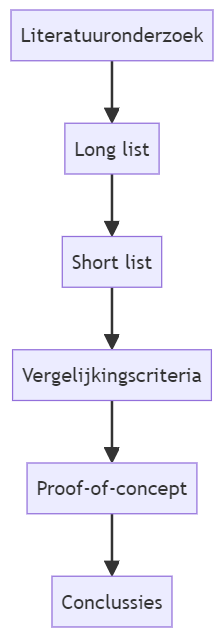
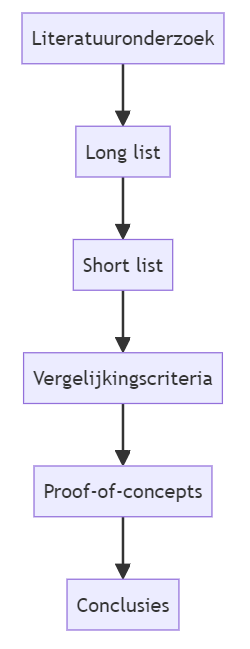
Verbeterd voorstel

Changed region(s): [[0.0312, 0.0, 0.9688, 0.9828]]

diff --git a/voorstel/voorstel-inhoud.tex b/voorstel/voorstel-inhoud.tex
@@ -3,16 +3,16 @@
 \section{Introductie}%
 \label{sec:introductie}
 
-Het implementeren van ETL's en ELT's speelt een kritieke rol in de development binnen Net IT. Net IT is een bedrijf gespecialiseerd in Customer Relationship Management (CRM). Een CRM-systeem is een applicatie om voeling te houden met klanten en om processen te stroomlijnen en meer winst te genereren. Doordat Net IT een Microsoft Partner is zullen ze CRM-toepassingen implementeren met Microsoft Dynamics 365 en intelligente bedrijfstoepassingen met Microsoft Power Platform. Binnen Microsoft 365 Dynamics Customer Engagement worden er CSV bestanden geëxporteerd naar Azure Data Lake. Deze data wordt minstens dagelijks opgekuist, aangevuld en opgesplitst om naar de klant te kunnen doorsturen via SFTP of e-mail. Momenteel wordt dit gedaan door ETL's en ELT's te implementeren in Azure Data Factory, gebruik makend van de UI tools die aangeboden worden. Doordat dit niet de enige mogelijkheid is om dit te implementeren zal er gekeken worden naar de verschillende opties die er zijn. Aangezien Net IT een Microsoft Partner is zal er vooral gekeken worden binnen Microsoft Azure. Deze verschillende mogelijkheden zullen vergeleken worden op basis van performantie, kostprijs (voor dezelfde performantie), complexiteit, moeilijkheidsgraad in opzet en configuratie van de resources, verschil in implementatietijd en mogelijkheden van de tool. De methode die gebruikt zal worden is een gemengde aanpak gebasseerd op literatuuronderzoek en het opstellen van proof-of-concepts voor de gegeven use case van Net IT. Dit zal resulteren in een gedetailleerd vergelijkingsrapport, inclusief aanbeveling voor de meest geschikte aanpak voor het implementeren van ETL's of ELT's voor de gegeven use case.
+Het implementeren van ETL's en ELT's speelt een kritieke rol in de development binnen Net IT. Net IT is een bedrijf gespecialiseerd in Customer Relationship Management (CRM). Een CRM-systeem is een applicatie om voeling te houden met klanten en om processen te stroomlijnen en meer winst te genereren. Doordat Net IT een Microsoft Partner is zullen ze CRM-toepassingen implementeren met Microsoft Dynamics 365 en intelligente bedrijfstoepassingen met Microsoft Power Platform. Binnen Microsoft 365 Dynamics Customer Engagement worden er CSV bestanden geëxporteerd naar Azure Data Lake. Deze data wordt minstens dagelijks opgekuist, aangevuld en opgesplitst om naar de klant te kunnen doorsturen via SFTP of e-mail. Momenteel wordt dit gedaan door ETL's en ELT's te implementeren in Azure Data Factory, gebruik makend van de UI tools die aangeboden worden. Doordat dit niet de enige mogelijkheid is om dit te implementeren zal er gekeken worden naar de verschillende opties die er zijn. Aangezien Net IT een Microsoft Partner is zal er vooral gekeken worden binnen Microsoft Azure. Deze verschillende mogelijkheden zullen vergeleken worden op basis van performantie, kostprijs (voor dezelfde performantie), complexiteit, moeilijkheidsgraad in opzet en configuratie van de resources, verschil in implementatietijd en mogelijkheden van de tool. De methode die gebruikt zal worden is een gemengde aanpak gebaseerd op literatuuronderzoek en het opstellen van proof-of-concepts voor de gegeven use case van Net IT. Dit zal resulteren in een gedetailleerd vergelijkingsrapport, inclusief aanbeveling voor de meest geschikte aanpak voor het implementeren van ETL's of ELT's voor de gegeven use case.
 
 \section{State-of-the-art}%
 \label{sec:state-of-the-art}
 
-Als data data engineer krijgt men data in veel verschillende vormen. Het is dus noodzakelijk om deze data klaar te maken voor business analytics.~\autocite{Kromer2022} Hiervoor maakt men gebruik van ETL's en ELT's. Dit zijn processen die organisaties gebruiken voor het verzamelen en samenvoegen van data uit meerdere bronnen. Bij ETL's wordt de data getransformeerd voor het naar de doelopslagplaats geladen wordt, terwijl dit bij ELT's pas achteraf gebeurd. Daardoor staat ETL voor Extract, Transform and Load en ELT voor Extract, Load and Transform.~\autocite{Bartley2023} 
+Als data engineer krijgt men data in veel verschillende vormen. Het is dus noodzakelijk om deze data klaar te maken voor business analytics.~\autocite{Kromer2022} Hiervoor maakt men gebruik van ETL's en ELT's. Dit zijn processen die organisaties gebruiken voor het verzamelen en samenvoegen van data uit meerdere bronnen. Bij ETL's wordt de data getransformeerd voor het naar de doelopslagplaats geladen wordt, terwijl dit bij ELT's pas achteraf gebeurd. Daardoor staat ETL voor Extract, Transform and Load en ELT voor Extract, Load and Transform.~\autocite{Bartley2023} 
 
 In Azure zijn er meerdere mogelijkheden voor het implementeren van ETL's en ELT's. Één van deze mogelijkheden is Azure Data Factory. Zoals te zien in de enquête van~\textcite{Sreemathy2021} is dit de meest populaire data integratie service die aangeboden wordt door de cloud providers. Binnen Azure Data Factory kan er gebruik gemaakt worden van Mapping Data Flows, dit is een codevrije manier waarmee ETL's opgebouwd kunnen worden. De logica achter de ETL kan hierna makkelijk getest worden op live data en samples.~\autocite{Kromer2022a} 
 
-Daarnaast biedt Azure ook Azure Databricks aan. Het verschil hierbij is dat de ETL's worden geïmplementeerd via code terwijl dat bij Azure Data Factory via de UI tools kan gebeurt. Azure Databricks is gebasseerd op het Apache Spark open source project. Het grote voordeel is dat het platform het toelaat om makkelijker te kunnen samen werken. Daarnaast is Apache Spark niet enkel gelimiteerd tot het maken van ETL's maar kan het ook gebruikt worden voor real-time analytics, machine learning, graph processing, etc.~\autocite{Etaati2019}
+Daarnaast biedt Azure ook Azure Databricks aan. Het verschil hierbij is dat de ETL's worden geïmplementeerd via code terwijl dat bij Azure Data Factory via de UI tools kan gebeurt. Azure Databricks is gebaseerd op het Apache Spark open source project. Het grote voordeel is dat het platform het toelaat om makkelijker te kunnen samen werken. Daarnaast is Apache Spark niet enkel gelimiteerd tot het maken van ETL's maar kan het ook gebruikt worden voor real-time analytics, machine learning, graph processing, etc.~\autocite{Etaati2019}
 
 Azure is niet de enigste cloud provider die ETL tools aanbiedt. Zo heeft AWS bijvoorbeeld AWS Glue~\autocite{Khan2024} en Google Cloud heeft Google Data Fusion.~\autocite{Jaiswal2022}
 

diff --git a/voorstel/LievensLoeka-BPvoorstel.tex b/voorstel/LievensLoeka-BPvoorstel.tex
@@ -20,7 +20,7 @@
 % \course{Bachelor thesis}
 % \assignmenttype{Research proposal}
 
-\academicyear{2023-2023} % TODO: pas het academiejaar aan
+\academicyear{2023-2024} % TODO: pas het academiejaar aan
 
 % TODO: Werktitel
 \title{Optimaliseren van gegevensverwerking in Microsoft Azure: Een vergelijkende analyse van implementatiemethoden voor Extractie, Transformatie en Laden (ETL) en Extractie, Laden en Transformatie (ELT)}

diff --git a/voorstel/methodologie.md b/voorstel/methodologie.md
@@ -3,6 +3,6 @@ graph TD;
     A[Literatuuronderzoek] --> B[Long list]
     B --> C[Short list]
     C --> D[Vergelijkingscriteria]
-    D --> E[Proof-of-concept]
-    E --> F[Conclussies]
+    D --> E[Proof-of-concepts]
+    E --> F[Conclusies]
 ```
